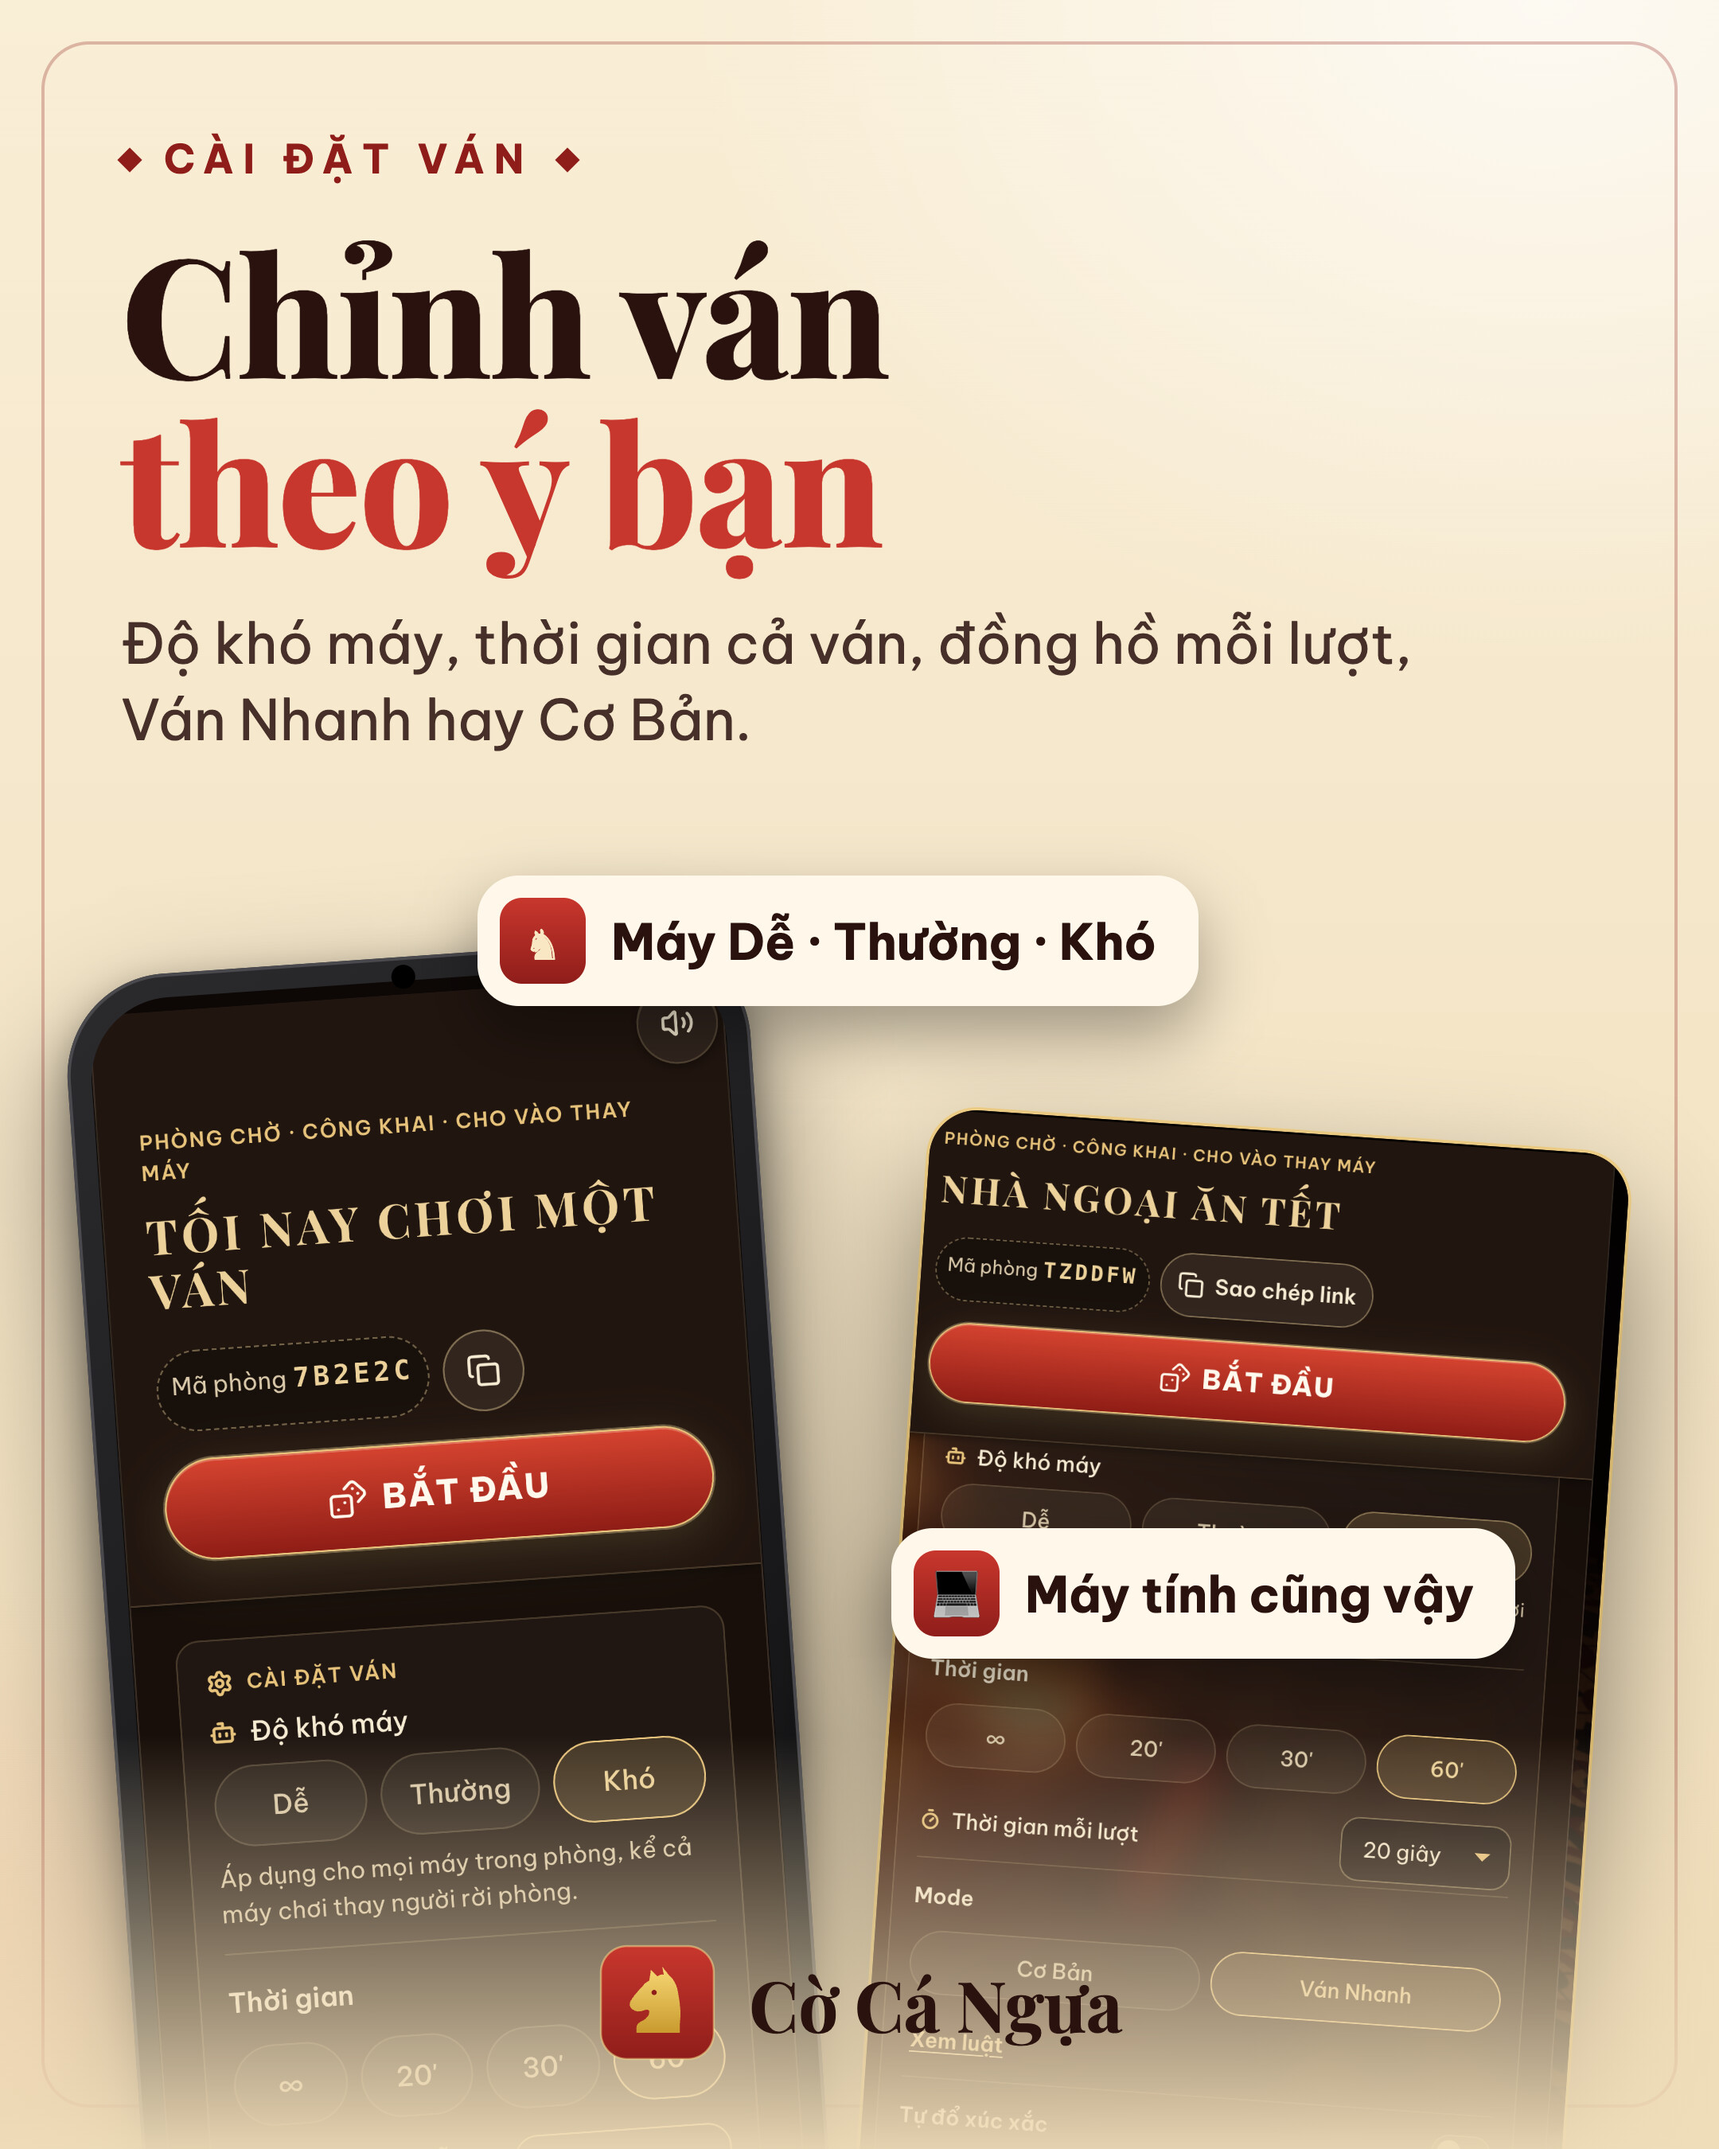
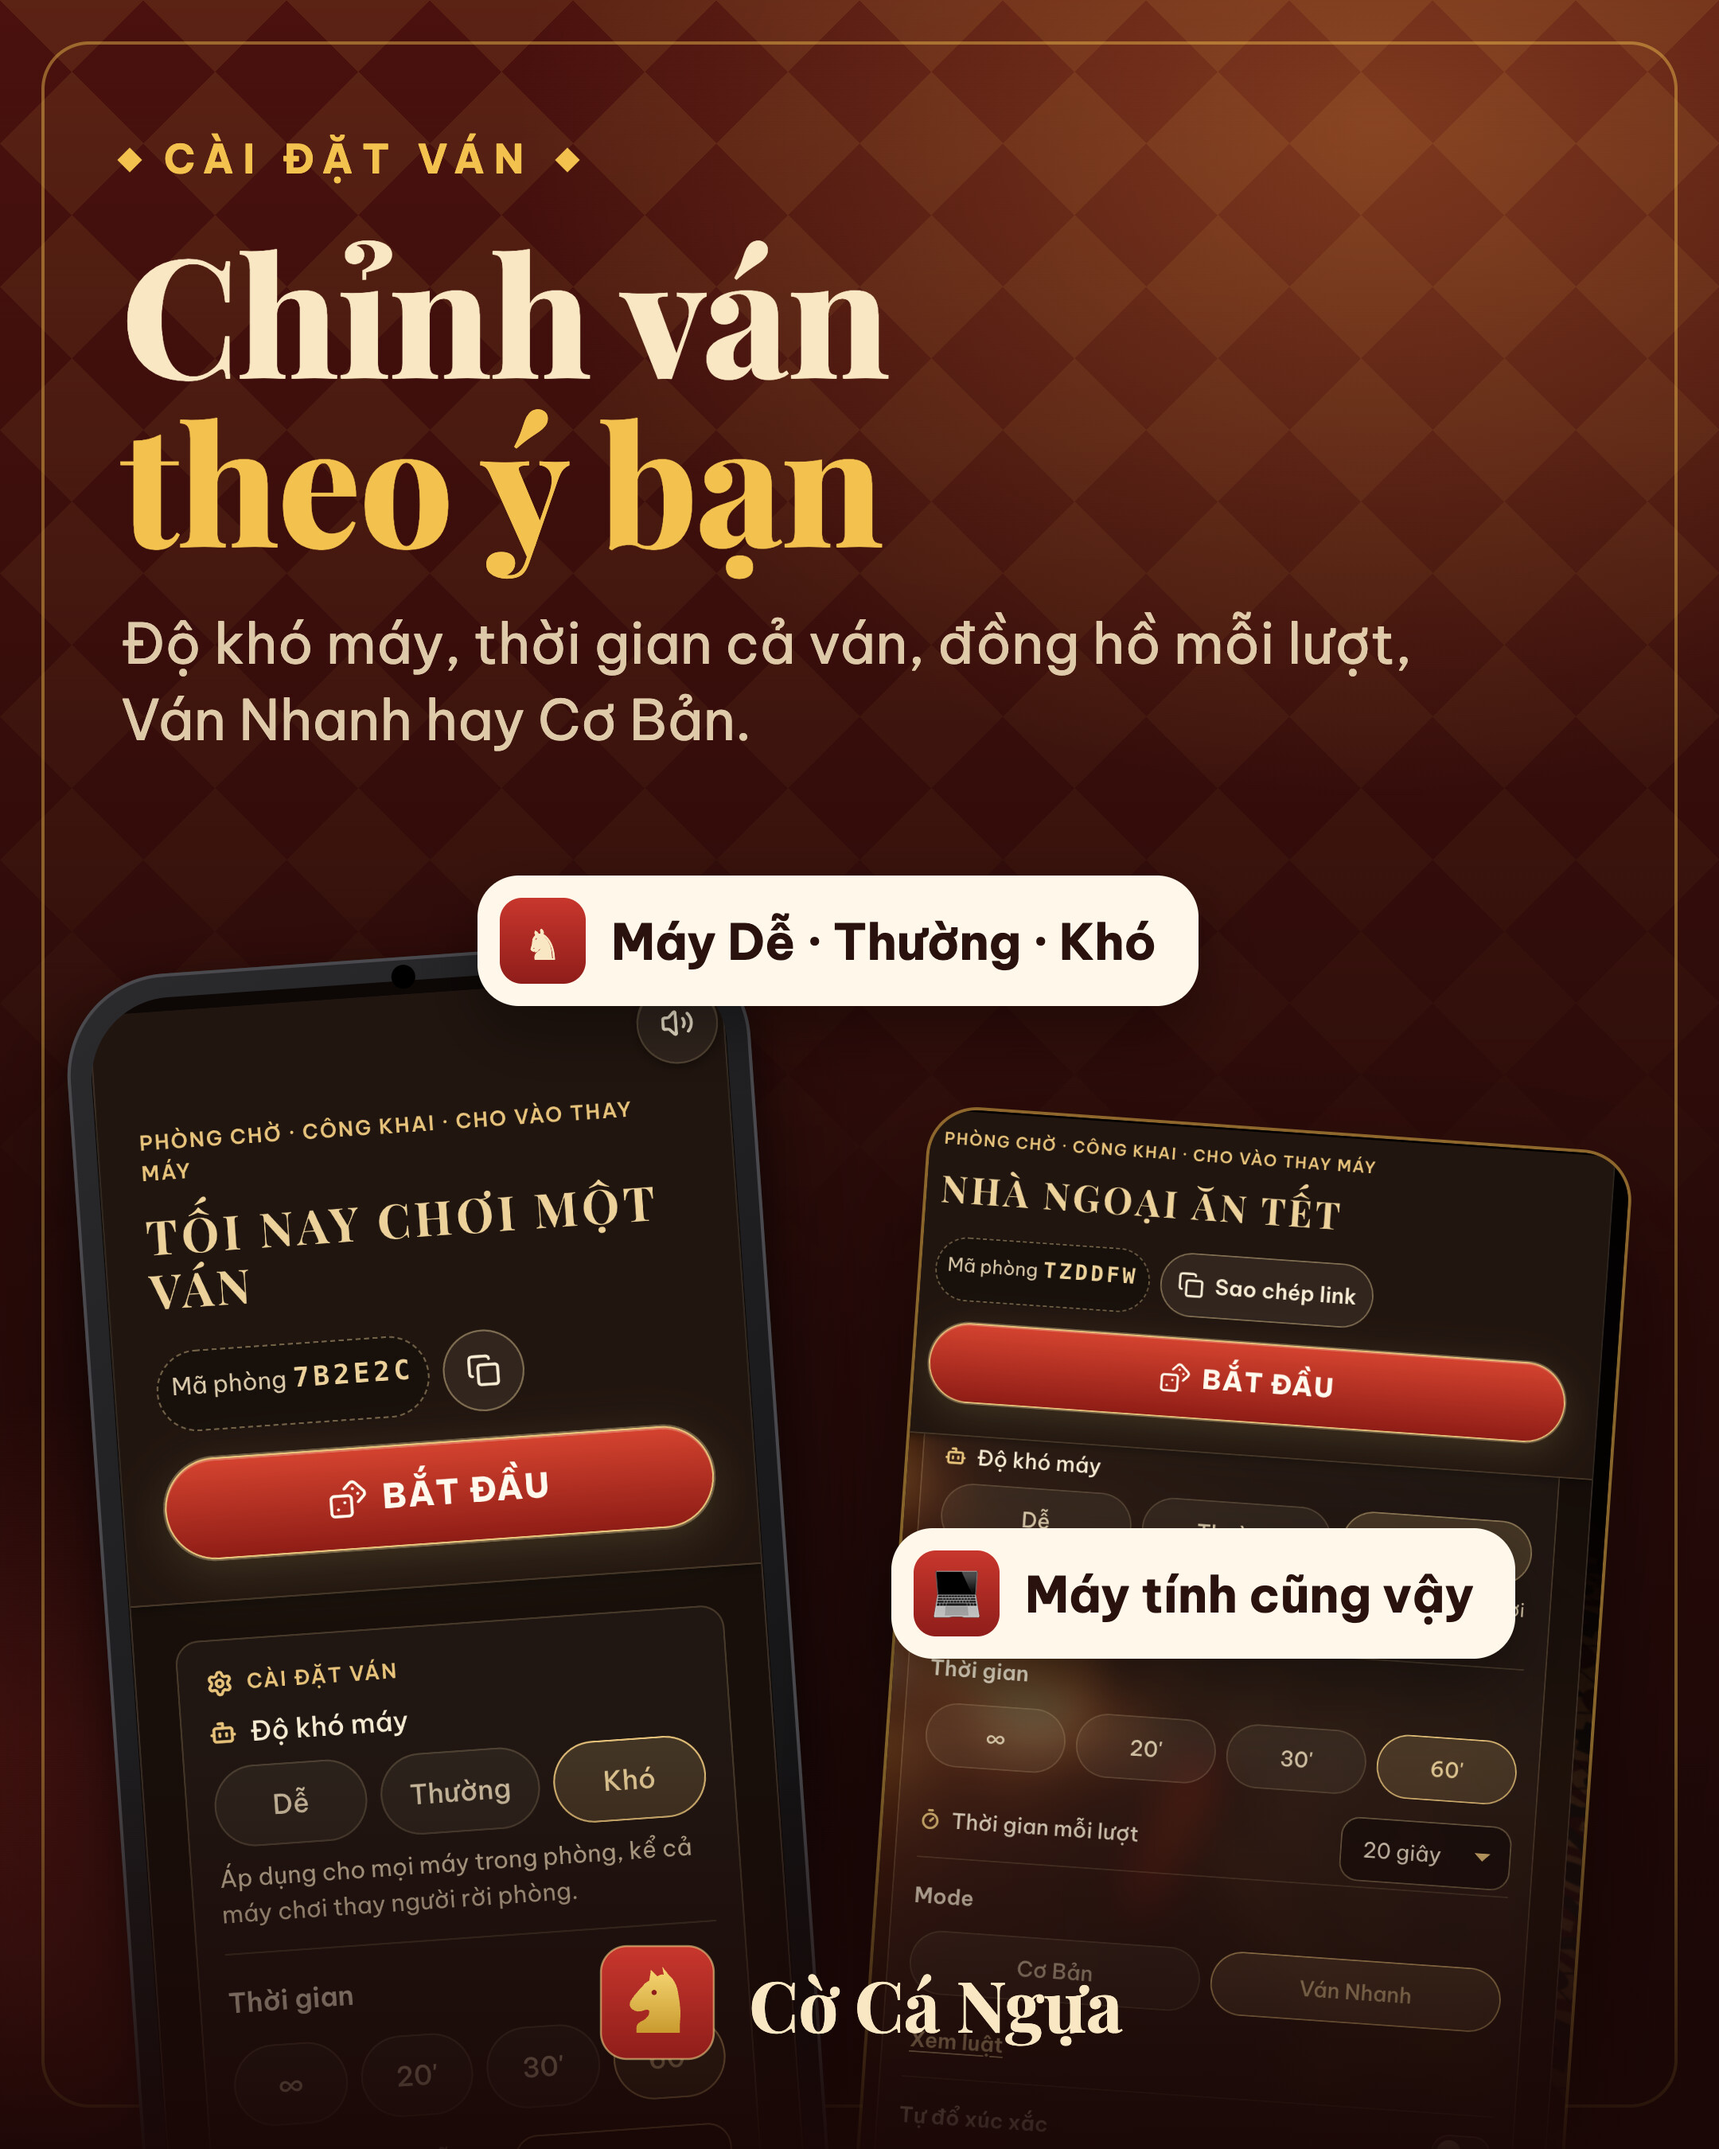
docs(campaign): use the same red lattice background on every ad image

diff --git a/assets/campaigns/20261122-ca-ngua-3d-ban-moi/ads/slides.html b/assets/campaigns/20261122-ca-ngua-3d-ban-moi/ads/slides.html
@@ -128,7 +128,7 @@
 </section>
 
 <!-- 2. Tạo phòng -->
-<section class="slide paper shade-b" id="s2">
+<section class="slide dark shade-b" id="s2">
   <div class="frame"></div>
   <div class="copy">
     <div class="kicker"><i></i>Tạo phòng<i></i></div>
@@ -144,7 +144,7 @@
 
 
 <!-- 3. Cài đặt ván -->
-<section class="slide paper shade-b" id="s3">
+<section class="slide dark shade-b" id="s3">
   <div class="frame"></div>
   <div class="copy">
     <div class="kicker"><i></i>Cài đặt ván<i></i></div>
@@ -189,7 +189,7 @@
 </section>
 
 <!-- 6. Bảng đá ngựa -->
-<section class="slide paper compact" id="s6">
+<section class="slide dark compact" id="s6">
   <div class="frame"></div>
   <img class="logo-corner" src="logo/co-ca-ngua-mark.svg" alt="">
   <div class="copy">
@@ -219,7 +219,7 @@
 </section>
 
 <!-- 8. Vào giữa ván -->
-<section class="slide paper compact" id="s8">
+<section class="slide dark compact" id="s8">
   <div class="frame"></div>
   <img class="logo-corner" src="logo/co-ca-ngua-mark.svg" alt="">
   <div class="copy">
@@ -235,8 +235,7 @@
 
 <!-- 9. Mã đáo thành công -->
 <section class="slide dark" id="s9">
-  <img src="../creatives/social/tuong-ma-dao-thanh-cong-2400x1600.jpg" alt="" style="position:absolute;left:0;top:0;width:100%;height:930px;object-fit:cover;object-position:50% 62%;">
-  <div style="position:absolute;inset:0;background:linear-gradient(180deg,rgba(26,7,6,.0) 0%,rgba(26,7,6,0) 50%,rgba(26,7,6,.85) 68%,#1a0706 76%)"></div>
+  <img src="../creatives/social/tuong-ma-dao-thanh-cong-2400x1600.jpg" alt="" style="position:absolute;left:0;top:0;width:100%;height:960px;object-fit:cover;object-position:50% 62%;mix-blend-mode:screen;-webkit-mask-image:linear-gradient(180deg,#000 0%,#000 62%,transparent 98%);mask-image:linear-gradient(180deg,#000 0%,#000 62%,transparent 98%);">
   <div class="frame"></div>
   <div style="position:absolute;left:76px;right:76px;top:860px;text-align:center;z-index:3">
     <div class="kicker" style="justify-content:center"><i></i>Nhân Ngày Văn hoá Việt Nam<i></i></div>
